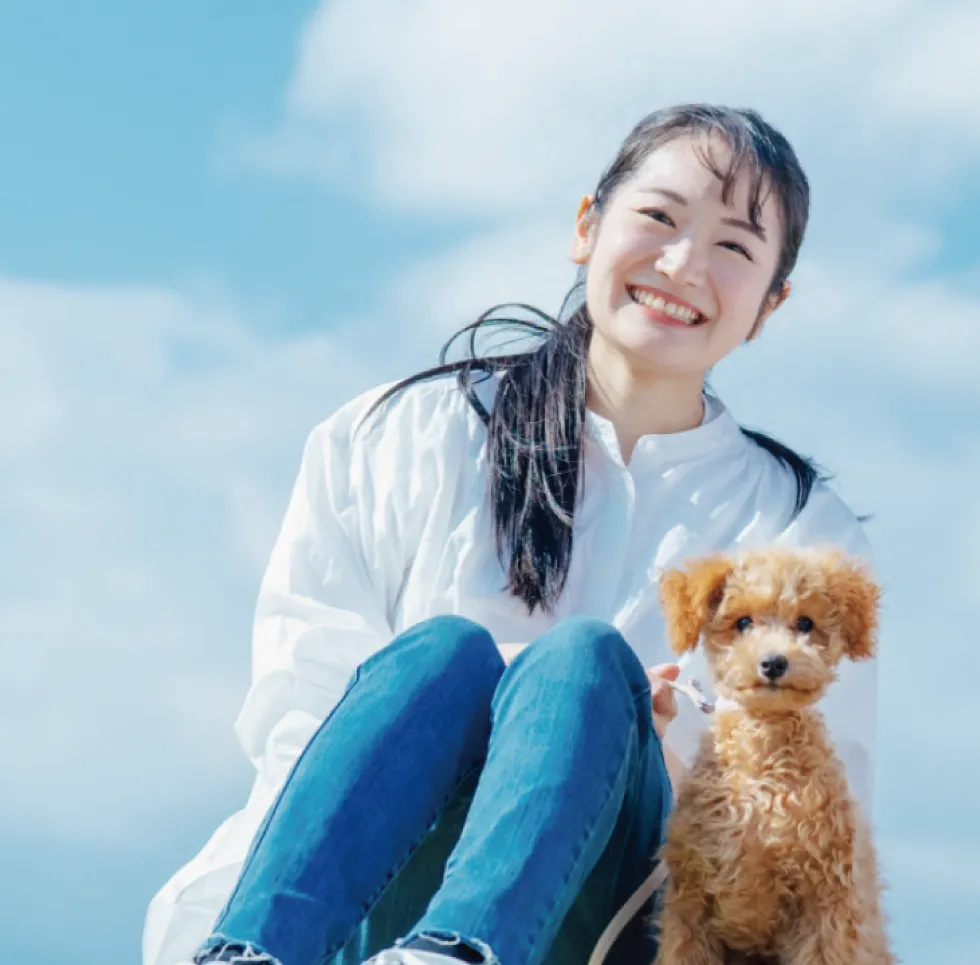
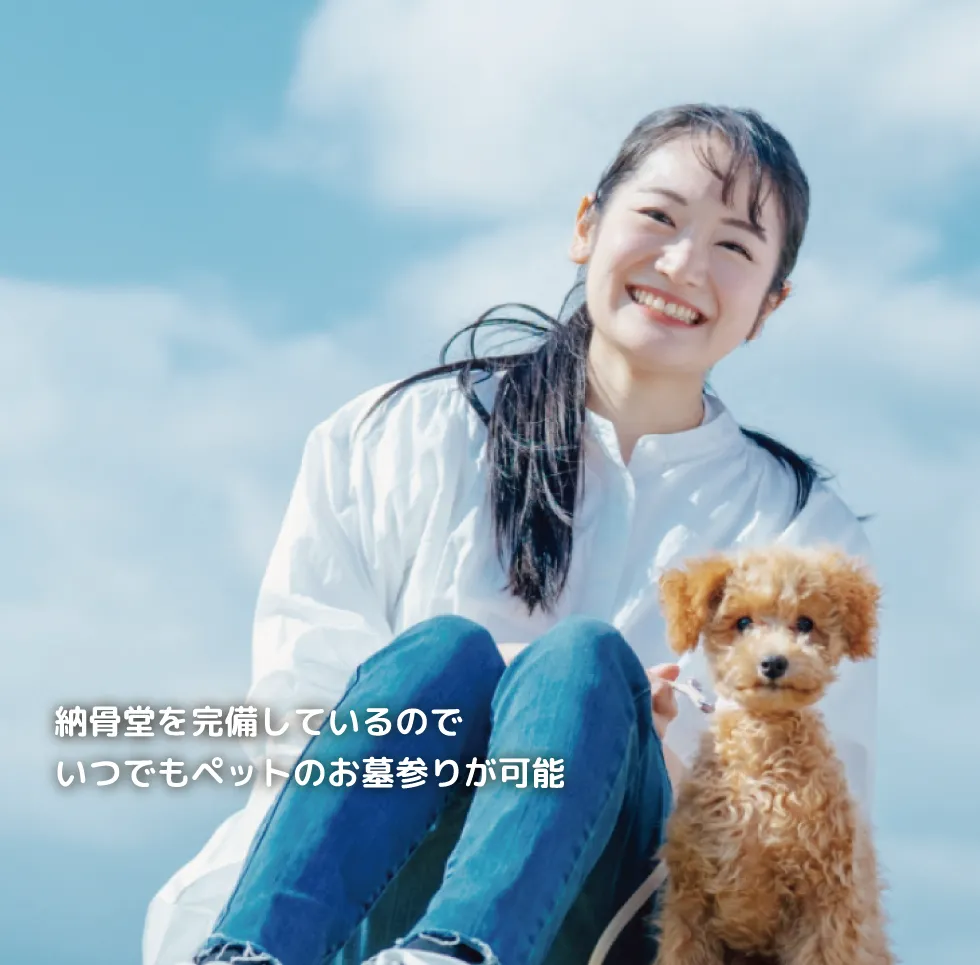
トップスライダ―画像変更

Changed region(s): [[0.0306, 0.715, 0.5816, 0.8394]]

diff --git a/wp-content/themes/mine/resources/css/mine-top.css b/wp-content/themes/mine/resources/css/mine-top.css
@@ -5,7 +5,7 @@
 
 .first-view .dogandcat{
     position: absolute;
-    top: 620px;
+    top: 626px;
     right: 36px;
     width: 530px;
 }
